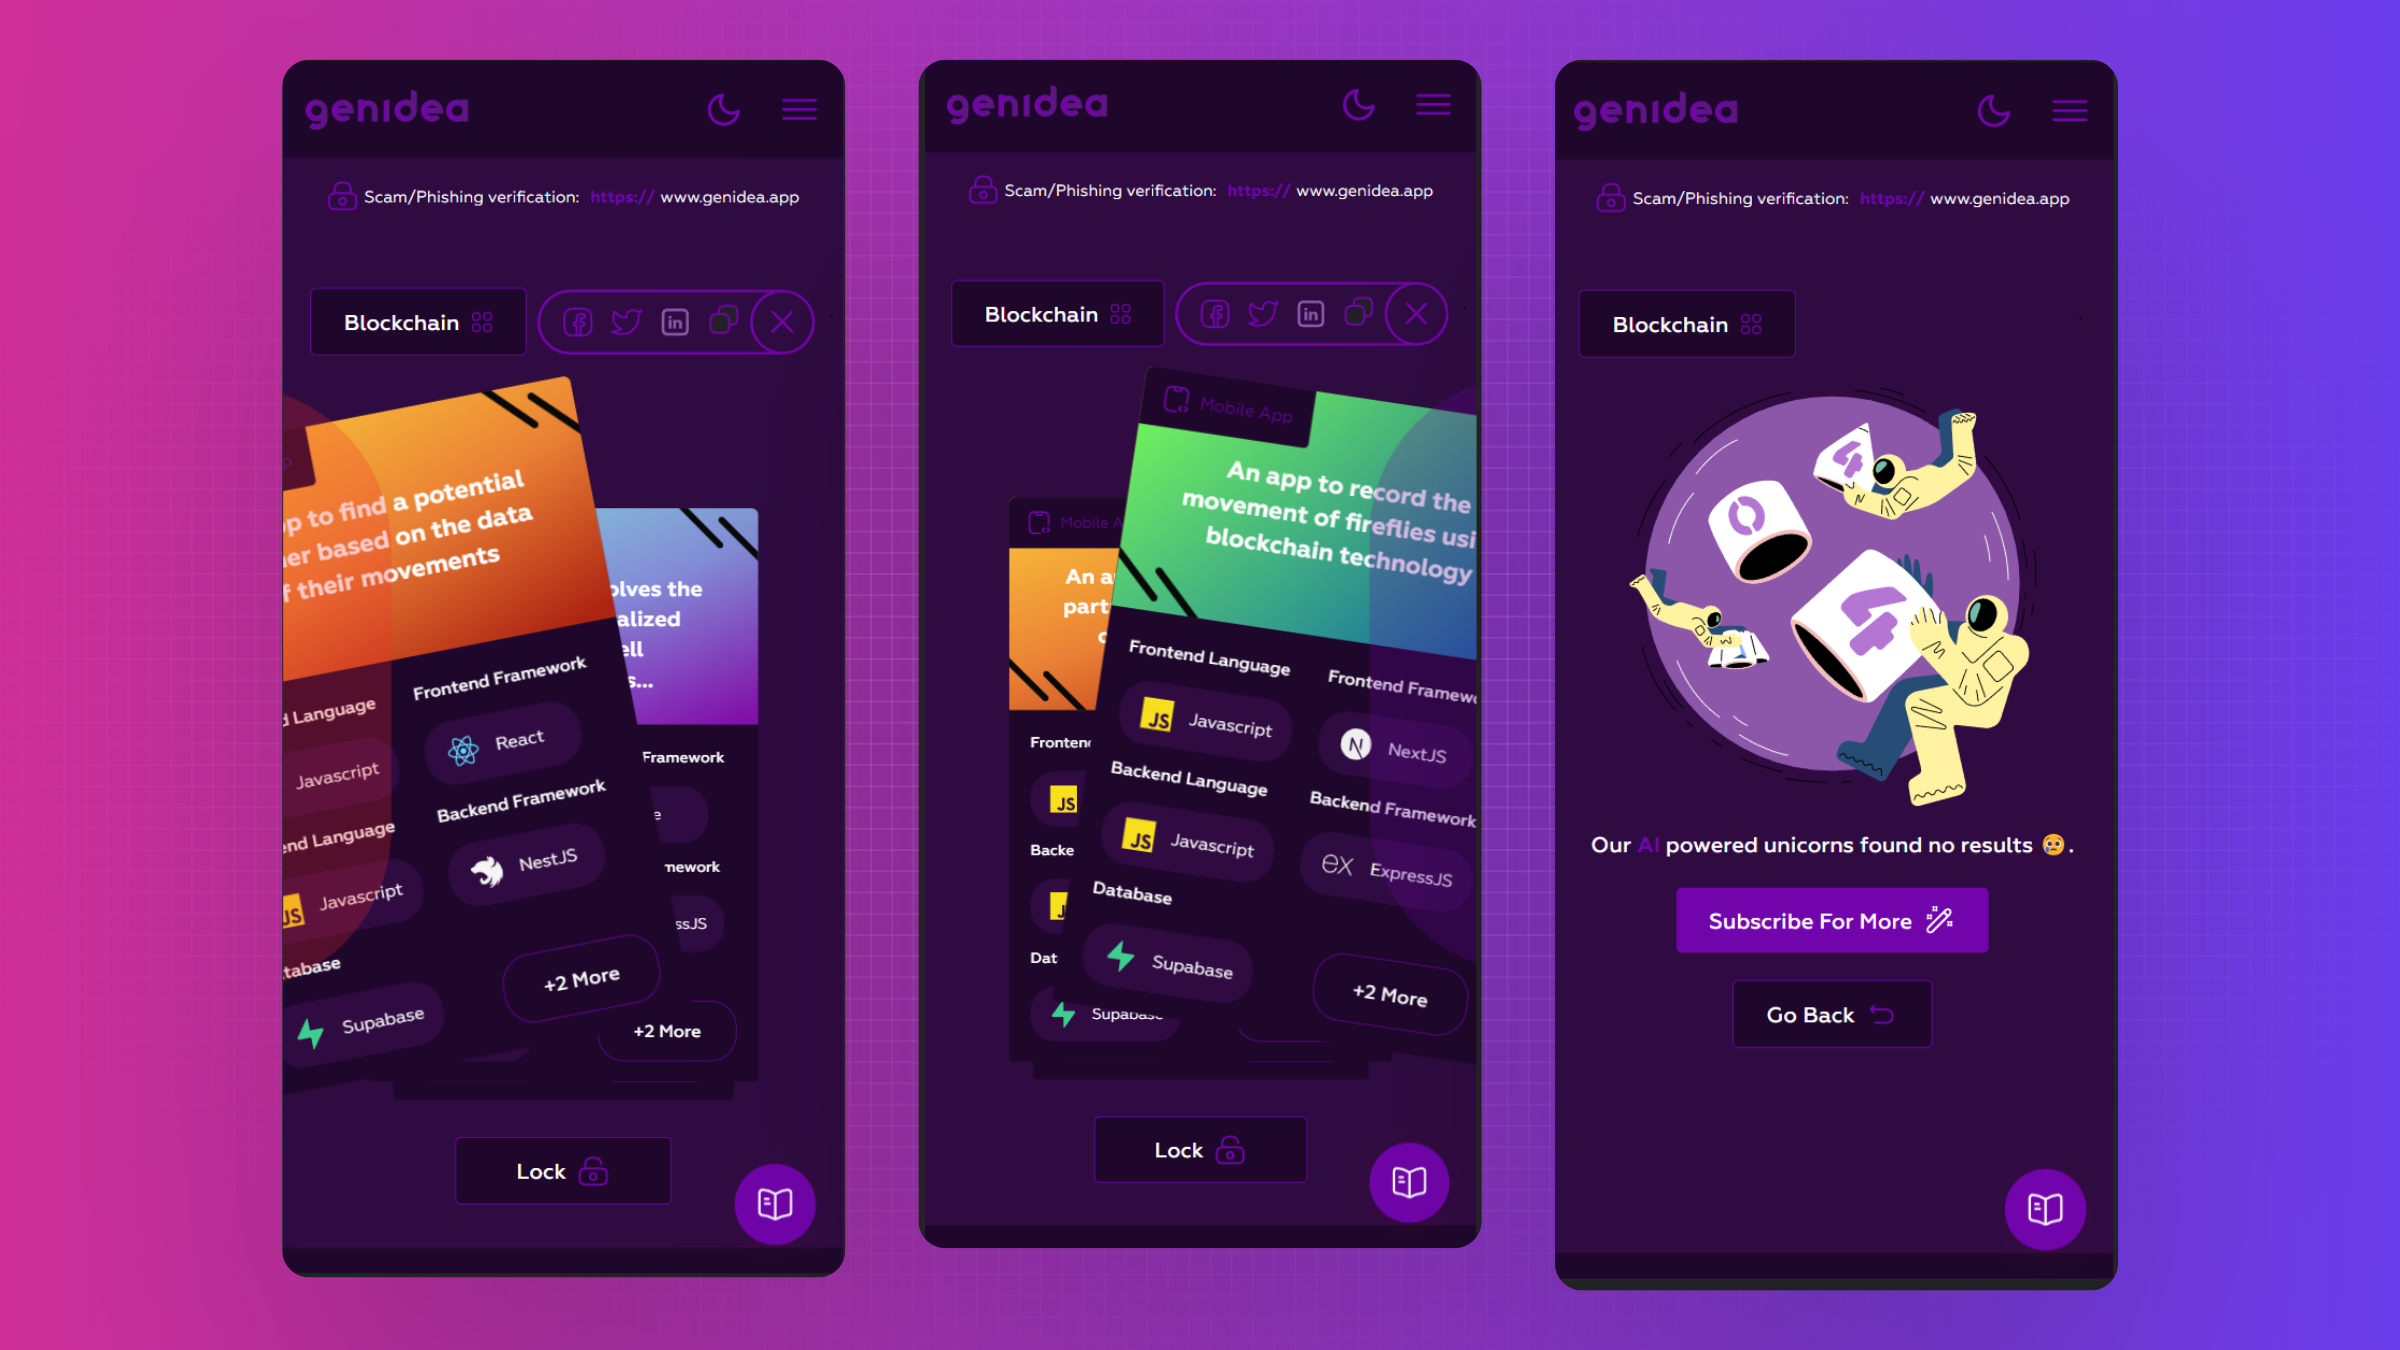
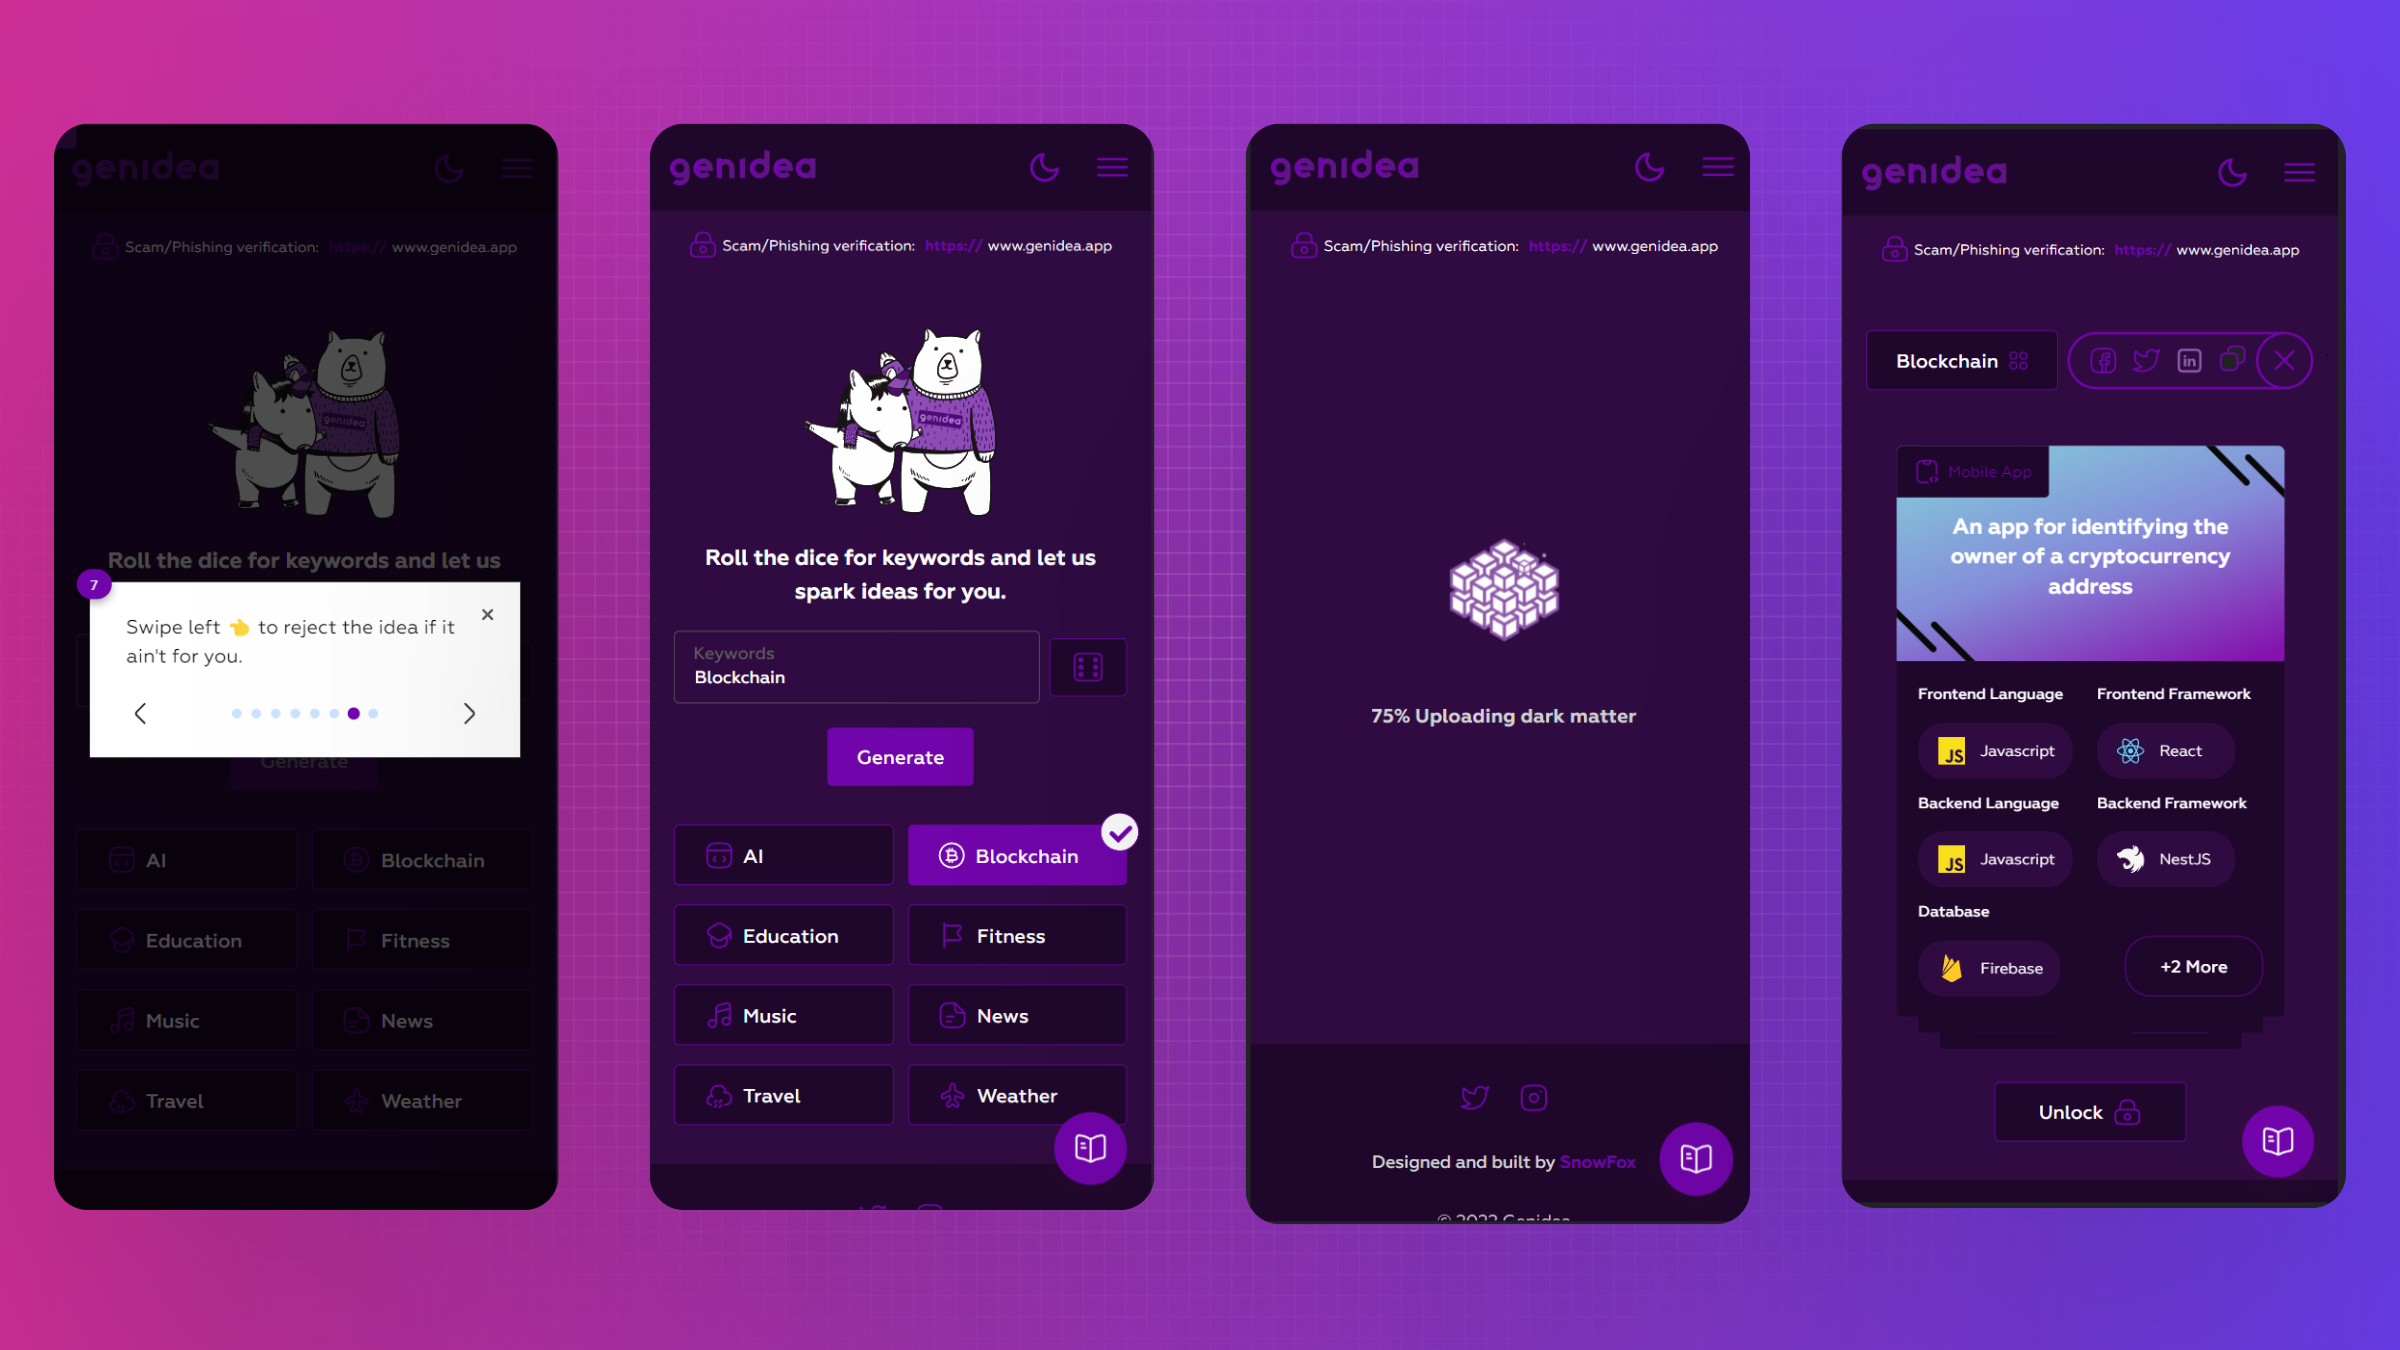
changes

diff --git a/src/paths/developer/genidea/Scene.tsx b/src/paths/developer/genidea/Scene.tsx
@@ -1,0 +1,53 @@
+import Gallery from '@components/gallery/Gallery'
+import { Debug, Physics, usePlane, useSphere } from '@react-three/cannon'
+import { useFrame, useThree } from '@react-three/fiber'
+import Balls from './Balls'
+import HTML from './Html'
+
+const Collisions = () => {
+  const viewport = useThree((state) => state.viewport)
+
+  usePlane(() => ({ position: [0, 0, 0], rotation: [0, 0, 0] }))
+  usePlane(() => ({ position: [0, 0, 8], rotation: [0, -Math.PI, 0] }))
+  usePlane(() => ({ position: [0, -4, 0], rotation: [-Math.PI / 2, 0, 0] }))
+  usePlane(() => ({ position: [0, 4, 0], rotation: [Math.PI / 2, 0, 0] }))
+  usePlane(() => ({ position: [0, 4, 0], rotation: [Math.PI / 2, 0, 0] }))
+
+  const [, api] = useSphere(() => ({ type: 'Kinematic', args: [1] }))
+
+  return useFrame((state) =>
+    api.position.set(
+      (state.mouse.x * viewport.width) / 2,
+      (state.mouse.y * viewport.height) / 2,
+      0.5,
+    ),
+  )
+}
+
+const urls = [...Array(6)].map((_, i) => `/assets/images/genidea/${i + 1}.png`)
+
+const Scene = () => {
+  return (
+    <>
+      <ambientLight intensity={1} />
+      <spotLight
+        position={[20, 20, 25]}
+        penumbra={1}
+        angle={0.2}
+        color="white"
+        castShadow
+        shadow-mapSize={[512, 512]}
+      />
+      <HTML />
+      <Physics gravity={[0, 0, 0]}>
+        {/* <Debug color="white" scale={1.1}> */}
+        <Collisions />
+        <Balls />
+        {/* </Debug> */}
+      </Physics>
+      <Gallery urls={urls} />
+    </>
+  )
+}
+
+export default Scene

diff --git a/src/paths/developer/MainScene.tsx b/src/paths/developer/MainScene.tsx
@@ -1,0 +1,45 @@
+import { Canvas } from '@react-three/fiber'
+
+import { Html, useProgress } from '@react-three/drei'
+import { EffectComposer, SSAO } from '@react-three/postprocessing'
+import { Suspense } from 'react'
+import PortfolioScene from './portfolio/Scene'
+import GenIdeaScene from './genidea/Scene'
+
+const Loader = () => {
+  const { progress } = useProgress()
+  return (
+    <Html center>
+      <h1>{parseInt(progress + '')}%</h1>
+    </Html>
+  )
+}
+
+const MainScene = () => {
+  return (
+    <Canvas>
+      <Suspense fallback={<Loader />}>
+        <GenIdeaScene />
+        {/* <PortfolioScene /> */}
+      </Suspense>
+      <EffectComposer multisampling={0}>
+        <SSAO
+          samples={11}
+          radius={0.1}
+          intensity={20}
+          luminanceInfluence={0.6}
+          color="green"
+        />
+        <SSAO
+          samples={21}
+          radius={0.03}
+          intensity={10}
+          luminanceInfluence={0.6}
+          color="green"
+        />
+      </EffectComposer>
+    </Canvas>
+  )
+}
+
+export default MainScene

diff --git a/src/paths/developer/genidea/Html.tsx b/src/paths/developer/genidea/Html.tsx
@@ -13,9 +13,11 @@ import {
 import { useEffect, useRef } from 'react'
 import gsap from 'gsap'
 import { useThree } from '@react-three/fiber'
-import { useMediaQuery } from '@react-hookz/web'
+import { useLocalStorageValue, useMediaQuery } from '@react-hookz/web'
 
 const Content = () => {
+  const [theme] = useLocalStorageValue('theme', 'light')
+
   const ref = useRef(null)
   const tl = useRef<gsap.core.Timeline>()
   const q = gsap.utils.selector(ref)

diff --git a/src/paths/developer/portfolio/Scene.tsx b/src/paths/developer/portfolio/Scene.tsx
@@ -1,0 +1,19 @@
+import Gallery from '@components/gallery/Gallery'
+import HTML from './Html'
+import Wobble from './Wobble'
+
+const urls = [...Array(6)].map(
+  (_, i) => `/assets/images/portfolio/${i + 1}.png`,
+)
+
+const Scene = () => {
+  return (
+    <>
+      <HTML />
+      <Gallery urls={urls} />
+      <Wobble />
+    </>
+  )
+}
+
+export default Scene

diff --git a/src/lib/styles/blog.css b/src/lib/styles/blog.css
@@ -177,6 +177,6 @@
   }
 
   .project-container {
-    @apply opacity-0 md:w-[500px] w-screen rounded-8 absolute pt-32 md:pt-5 -top-10 p-5 dark:bg-[#000000] dark:bg-opacity-20 bg-none backdrop-blur-sm;
+    @apply opacity-0 md:w-[500px] w-screen rounded-8 absolute -top-10 p-5 dark:bg-[#000000] dark:bg-opacity-20 bg-none backdrop-blur-sm;
   }
 }

diff --git a/src/components/gallery/Minimap.tsx b/src/components/gallery/Minimap.tsx
@@ -50,7 +50,7 @@ const Minimap = ({ urls }: { urls: string[] }) => {
           material={material}
           position={[
             i * 0.06 - urls.length * 0.03 + (isDesktop ? 3 : 0),
-            -height / 2 + (isDesktop ? 0.6 : 0.45),
+            -height / 2 + (isDesktop ? 0.3 : 0.2),
             0,
           ]}
         />
